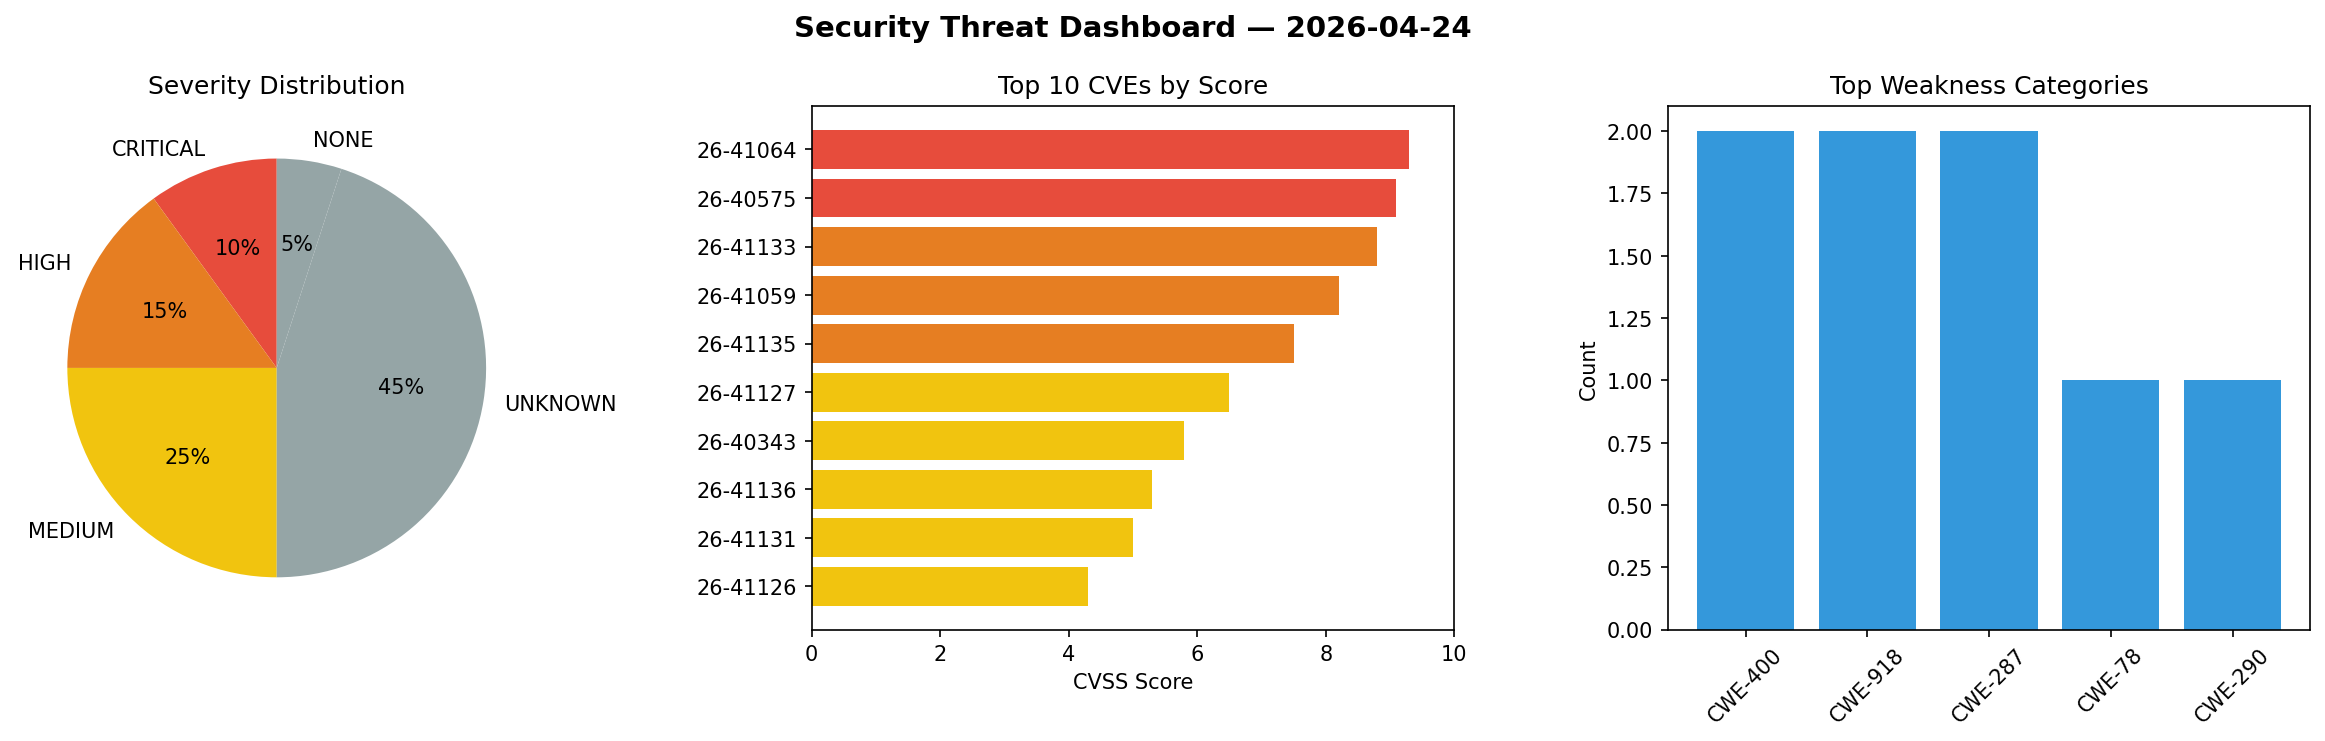
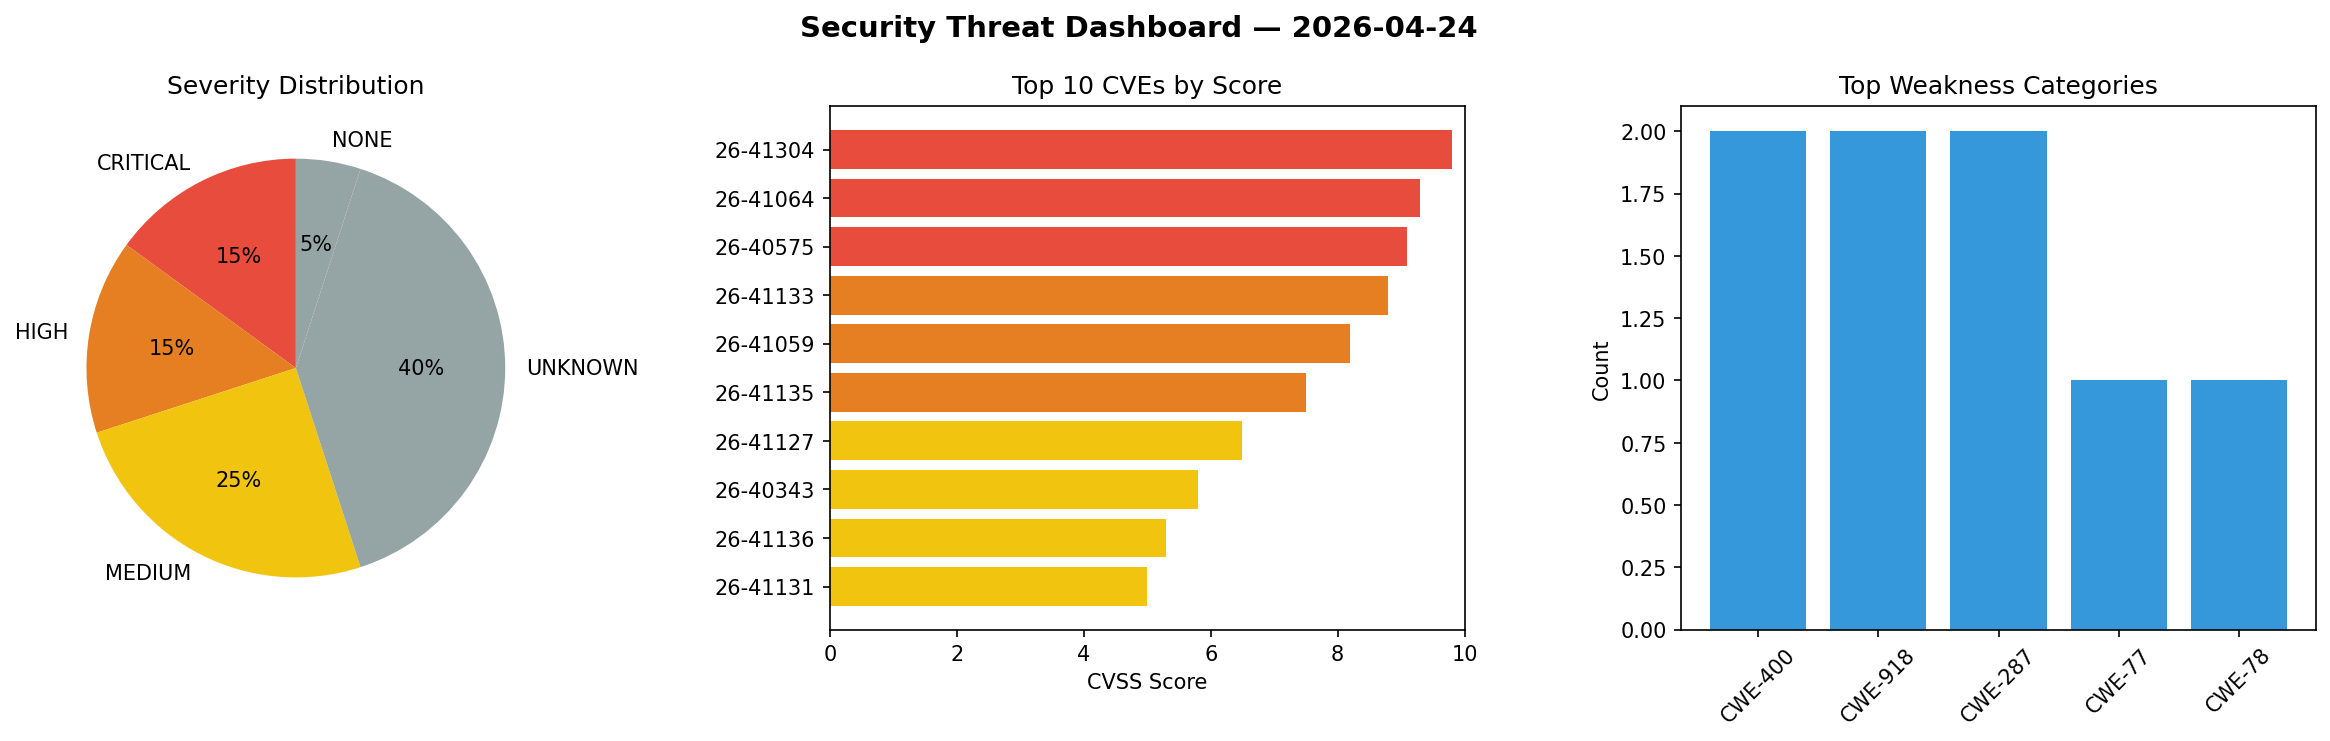
daily-experiments: security scan 2026-04-24T15:41

diff --git a/logs/2026-04-24.md b/logs/2026-04-24.md
@@ -1,6 +1,6 @@
 # Security Scan Report — 2026-04-24
 
-**Scan ID:** `66db7957f5` | **CVEs:** 20 | **Threat Index:** 200.9
+**Scan ID:** `970482ddf3` | **CVEs:** 20 | **Threat Index:** 240.1
 
 ![Dashboard](2026-04-24_dashboard.png)
 
@@ -10,12 +10,12 @@
 
 | Metric | Value |
 |--------|-------|
-| Threat Index | 200.9 |
-| Critical CVEs | 2 |
-| CRITICAL | 2 |
+| Threat Index | 240.1 |
+| Critical CVEs | 3 |
+| CRITICAL | 3 |
 | HIGH | 3 |
 | MEDIUM | 5 |
-| UNKNOWN | 9 |
+| UNKNOWN | 8 |
 | NONE | 1 |
 
 ## Delta vs Yesterday
@@ -23,8 +23,8 @@
 | Metric | Today | Yesterday | Change |
 |--------|-------|-----------|--------|
 | total_cves | 20 | 20 | ➡ 0.0% |
-| threat_index | 200.9 | 367.2 | 📉 -45.3% |
-| critical_count | 2 | 1 | 📈 100.0% |
+| threat_index | 240.1 | 367.2 | 📉 -34.6% |
+| critical_count | 3 | 1 | 📈 200.0% |
 
 ## Top Weakness Categories
 
@@ -33,13 +33,14 @@
 | CWE-400 | 2 |
 | CWE-918 | 2 |
 | CWE-287 | 2 |
+| CWE-77 | 1 |
 | CWE-78 | 1 |
-| CWE-290 | 1 |
 
 ## CVE Details
 
 | CVE ID | Score | Severity | Description |
 |--------|-------|----------|-------------|
+| CVE-2026-41304 | 9.8 | CRITICAL | WWBN AVideo is an open source video platform. In versions 29.0 and below, the `c... |
 | CVE-2026-41064 | 9.3 | CRITICAL | WWBN AVideo is an open source video platform. In versions up to and including 29... |
 | CVE-2026-40575 | 9.1 | CRITICAL | OAuth2 Proxy is a reverse proxy that provides authentication using OAuth2 provid... |
 | CVE-2026-41133 | 8.8 | HIGH | pyLoad is a free and open-source download manager written in Python. Versions up... |
@@ -54,4 +55,3 @@
 | CVE-2026-41129 | 0.0 | UNKNOWN | Craft CMS is a content management system (CMS). Versions on the 4.x branch throu... |
 | CVE-2026-41130 | 0.0 | UNKNOWN | Craft CMS is a content management system (CMS). In versions on the 4.x branch th... |
 | CVE-2026-41144 | 0.0 | NONE | F´ (F Prime) is a framework that enables development and deployment of spaceflig... |
-| CVE-2026-41304 | 0.0 | UNKNOWN | WWBN AVideo is an open source video platform. In versions 29.0 and below, the `c... |
